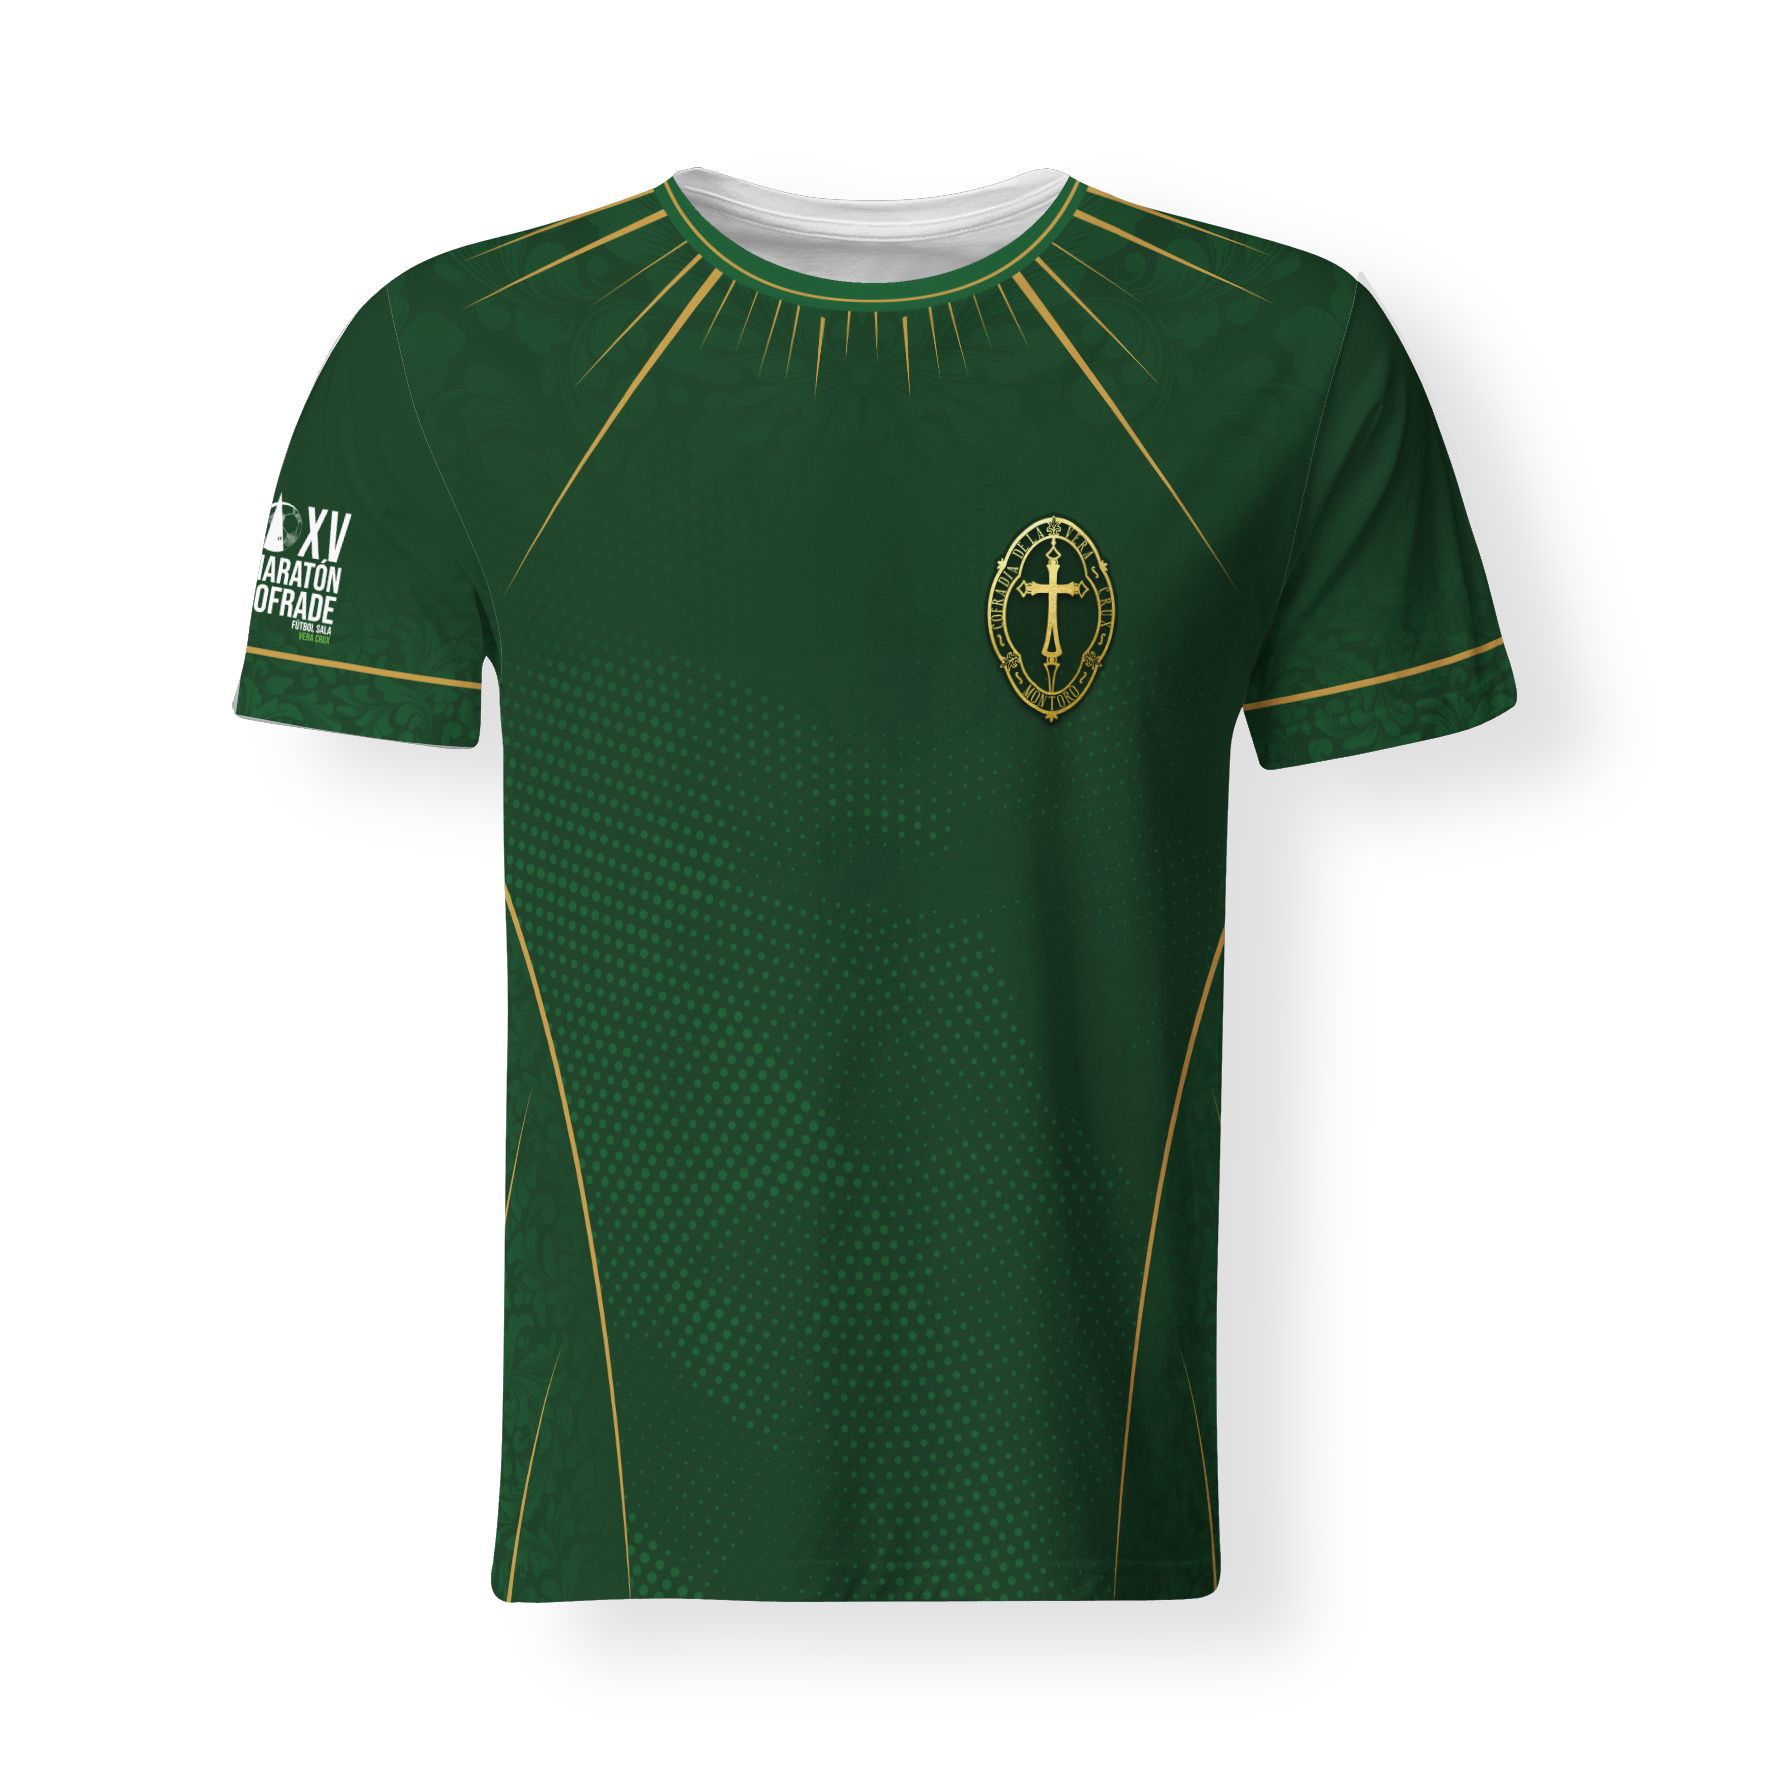
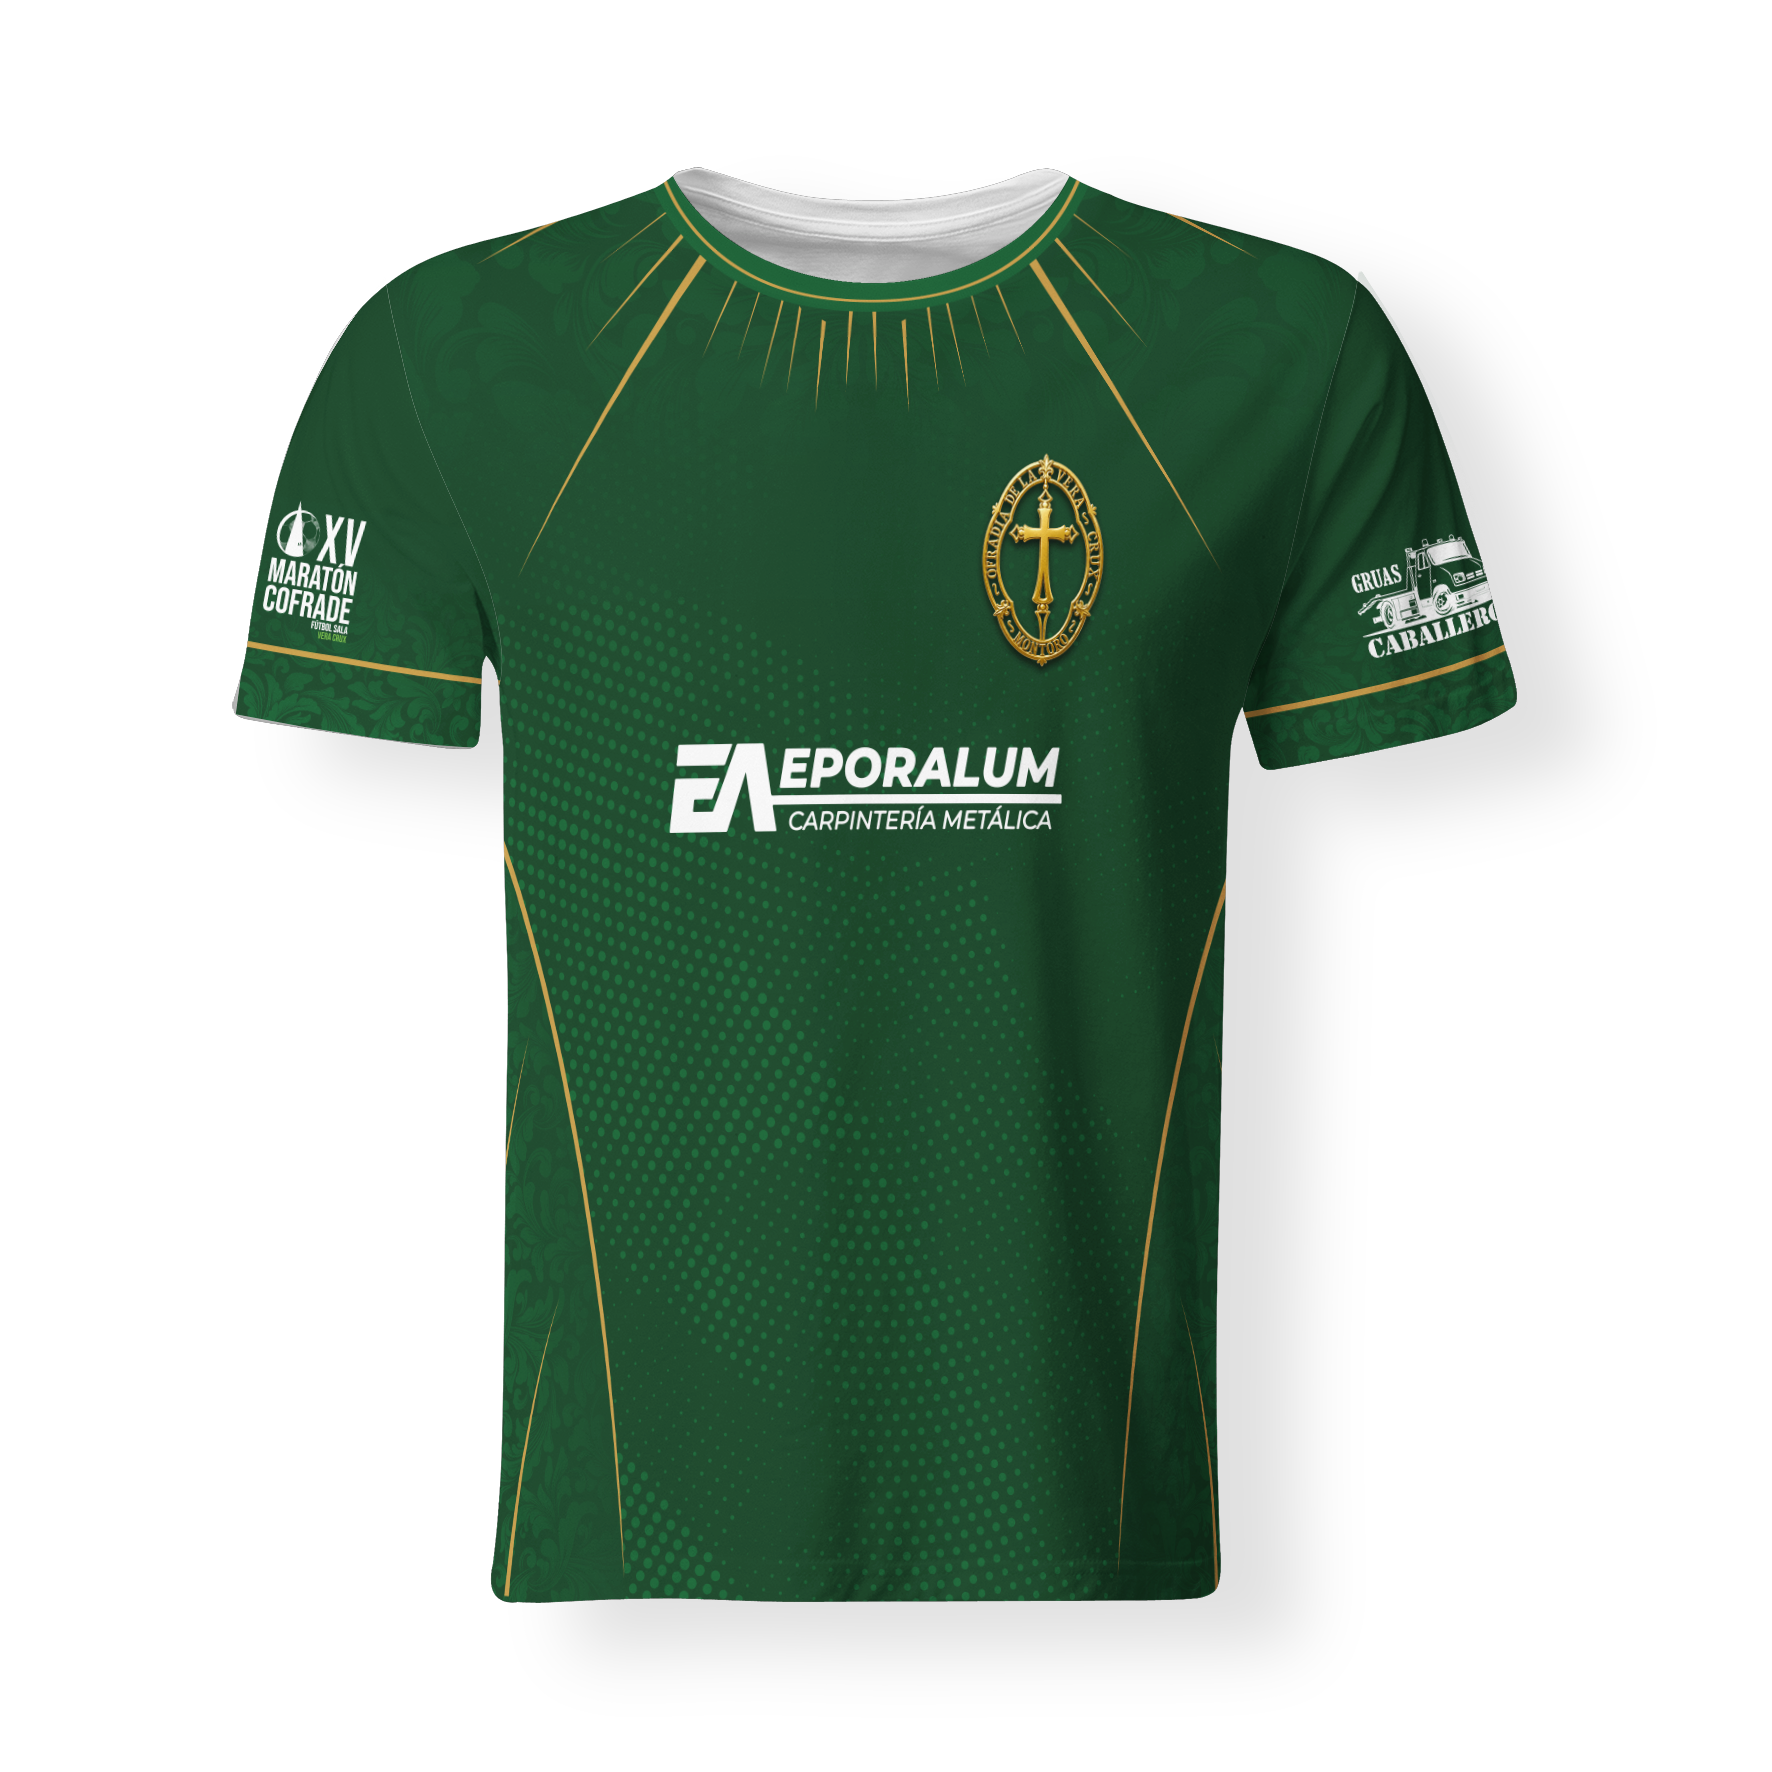
Añadir equipo Vera Crux con escudo, camisetas y tienda

diff --git a/equipos.js b/equipos.js
@@ -10,7 +10,7 @@ const teams = [
   { id: 5,  group: null, slot: null, name: 'JESÚS CAÍDO', cofradia: 'Agrupación Musical Jesús Caído', primary: '#0d1b4b', secondary: '#ffffff', kit: 'solid', shieldImg: 'kits/escudo-jesus-caido.png', kitImgA: 'kits/JESUS-CAIDO-A.png', kitImgB: 'kits/JESUS-CAIDO-B.png', pending: false },
   { id: 6,  group: null, slot: null, name: 'SANTO ENTIERRO', cofradia: 'Cofradía Sacramental del Santo Sepulcro y Ntra. Sra. de la Soledad', primary: '#1a1a1a', secondary: '#ffffff', kit: 'solid', shieldImg: 'kits/escudo-santo-entierro.png', kitImgA: 'kits/SANTO-ENTIERRO-A.png', kitImgB: 'kits/SANTO-ENTIERRO-B.png', pending: false },
   { id: 7,  group: null, slot: null, name: 'IMPERIO ROMANO', cofradia: 'Imperio Romano de Montoro', primary: '#0000FD', secondary: '#ffffff', kit: 'solid', shieldImg: 'kits/escudo-romanos.png', kitImgA: 'kits/ROMANOS-A.png', kitImgB: 'kits/ROMANOS-B.png', pending: false },
-  { id: 8,  group: null, slot: null, name: 'Equipo 8',  cofradia: '', primary: '#1a237e', secondary: '#e53935', kit: 'diagonal',  pending: true },
+  { id: 8,  group: null, slot: null, name: 'VERA CRUX', cofradia: 'Cofradía de la Santa Vera Crux y Santiago Apóstol', primary: '#174C27', secondary: '#ffffff', kit: 'solid', shieldImg: 'kits/escudo-vera-crux.png', kitImgA: 'kits/VERA-CRUX-A.png', kitImgB: 'kits/VERA-CRUX-B.png', pending: false },
   { id: 9,  group: null, slot: null, name: 'Equipo 9',  cofradia: '', primary: '#880e4f', secondary: '#ffffff', kit: 'halves',    pending: true },
   { id: 10, group: null, slot: null, name: 'Equipo 10', cofradia: '', primary: '#1b5e20', secondary: '#ffeb3b', kit: 'halves',    pending: true },
   { id: 11, group: null, slot: null, name: 'Equipo 11', cofradia: '', primary: '#212121', secondary: '#ffffff', kit: 'solid',     pending: true },

diff --git a/tienda.js b/tienda.js
@@ -13,7 +13,8 @@ const products = [
   { id:4, name:'GRUPO JOVEN VERA CRUX', cofradia:'Cofradía de la Santa Vera Crux y Santiago Apóstol', primary:'#B5DCCA', secondary:'#000000', kit:'solid', kitImgA:'kits/GRUPO-JOVEN-A.png',  kitImgB:'kits/GRUPO-JOVEN-B.png'  },
   { id:5, name:'JESÚS CAÍDO',   cofradia:'Agrupación Musical Jesús Caído',                                              primary:'#0d1b4b', secondary:'#ffffff', kit:'solid', kitImgA:'kits/JESUS-CAIDO-A.png',    kitImgB:'kits/JESUS-CAIDO-B.png'    },
   { id:6, name:'SANTO ENTIERRO', cofradia:'Cofradía Sacramental del Santo Sepulcro y Ntra. Sra. de la Soledad', primary:'#1a1a1a', secondary:'#ffffff', kit:'solid', kitImgA:'kits/SANTO-ENTIERRO-A.png', kitImgB:'kits/SANTO-ENTIERRO-B.png' },
-  { id:7, name:'IMPERIO ROMANO', cofradia:'Imperio Romano de Montoro',                                          primary:'#0000FD', secondary:'#ffffff', kit:'solid', kitImgA:'kits/ROMANOS-A.png',        kitImgB:'kits/ROMANOS-B.png'        },
+  { id:7, name:'IMPERIO ROMANO', cofradia:'Imperio Romano de Montoro',                                          primary:'#0000FD', secondary:'#ffffff', kit:'solid', kitImgA:'kits/ROMANOS-A.png',       kitImgB:'kits/ROMANOS-B.png'       },
+  { id:8, name:'VERA CRUX',     cofradia:'Cofradía de la Santa Vera Crux y Santiago Apóstol',                  primary:'#174C27', secondary:'#ffffff', kit:'solid', kitImgA:'kits/VERA-CRUX-A.png',     kitImgB:'kits/VERA-CRUX-B.png'     },
 ];
 
 const SIZES = ['2A', '4A', '6A', '8A', '10A', '12A', '14A', 'XS', 'S', 'M', 'L', 'XL', 'XXL'];
